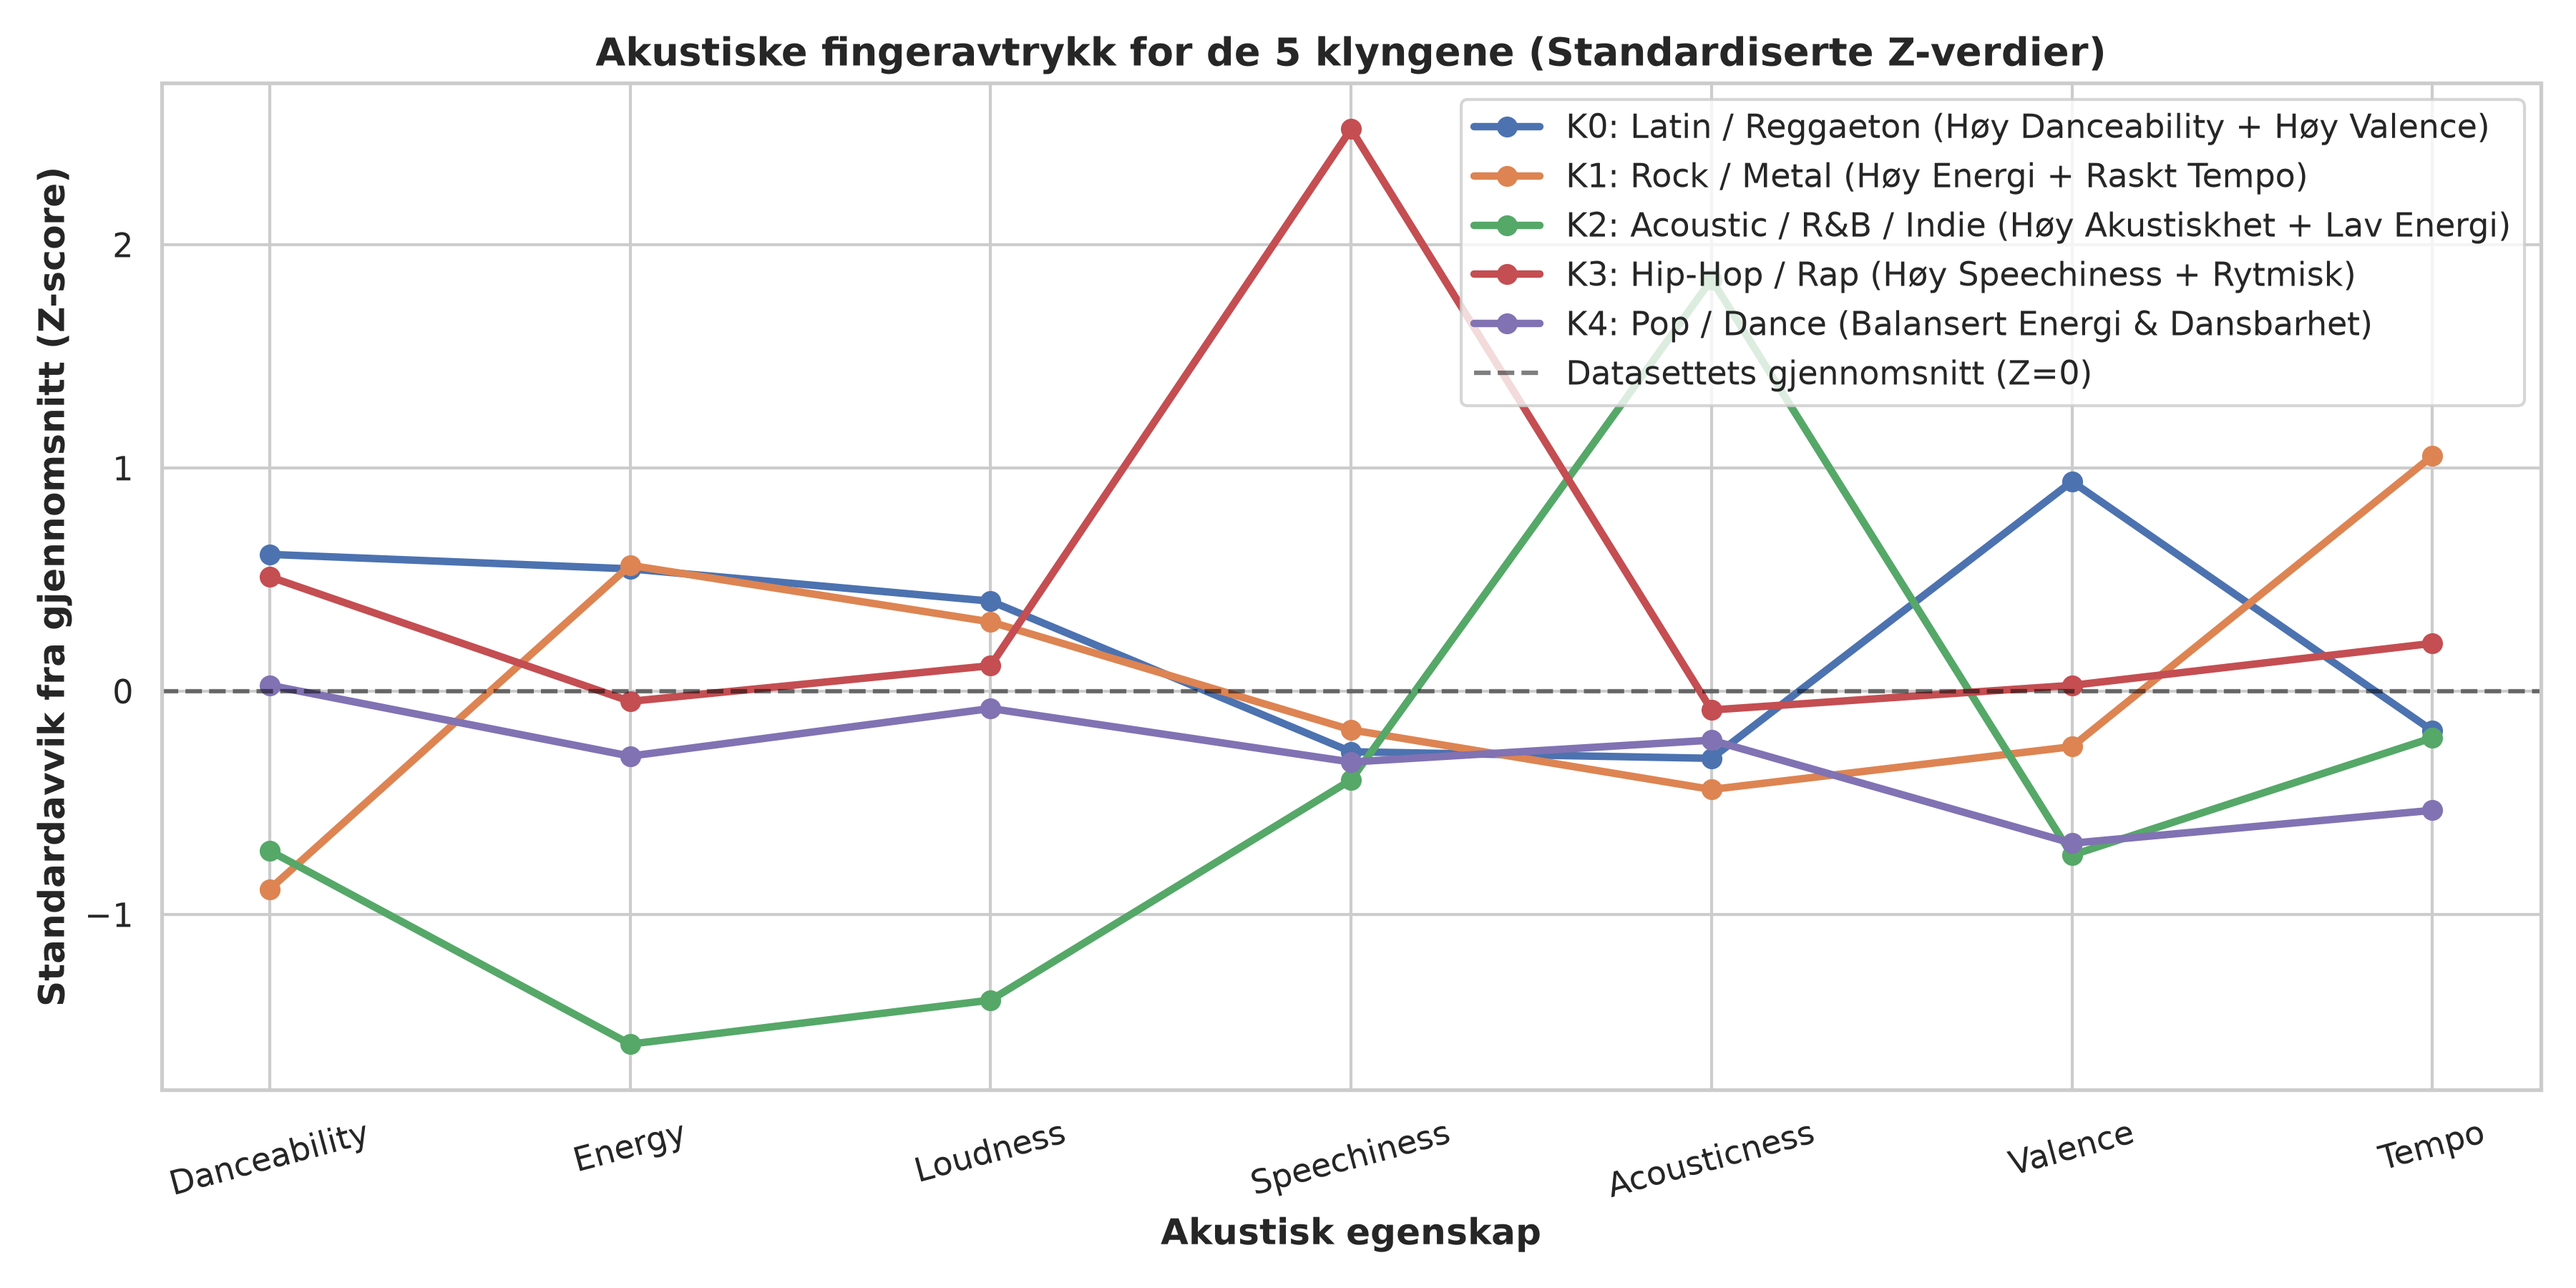
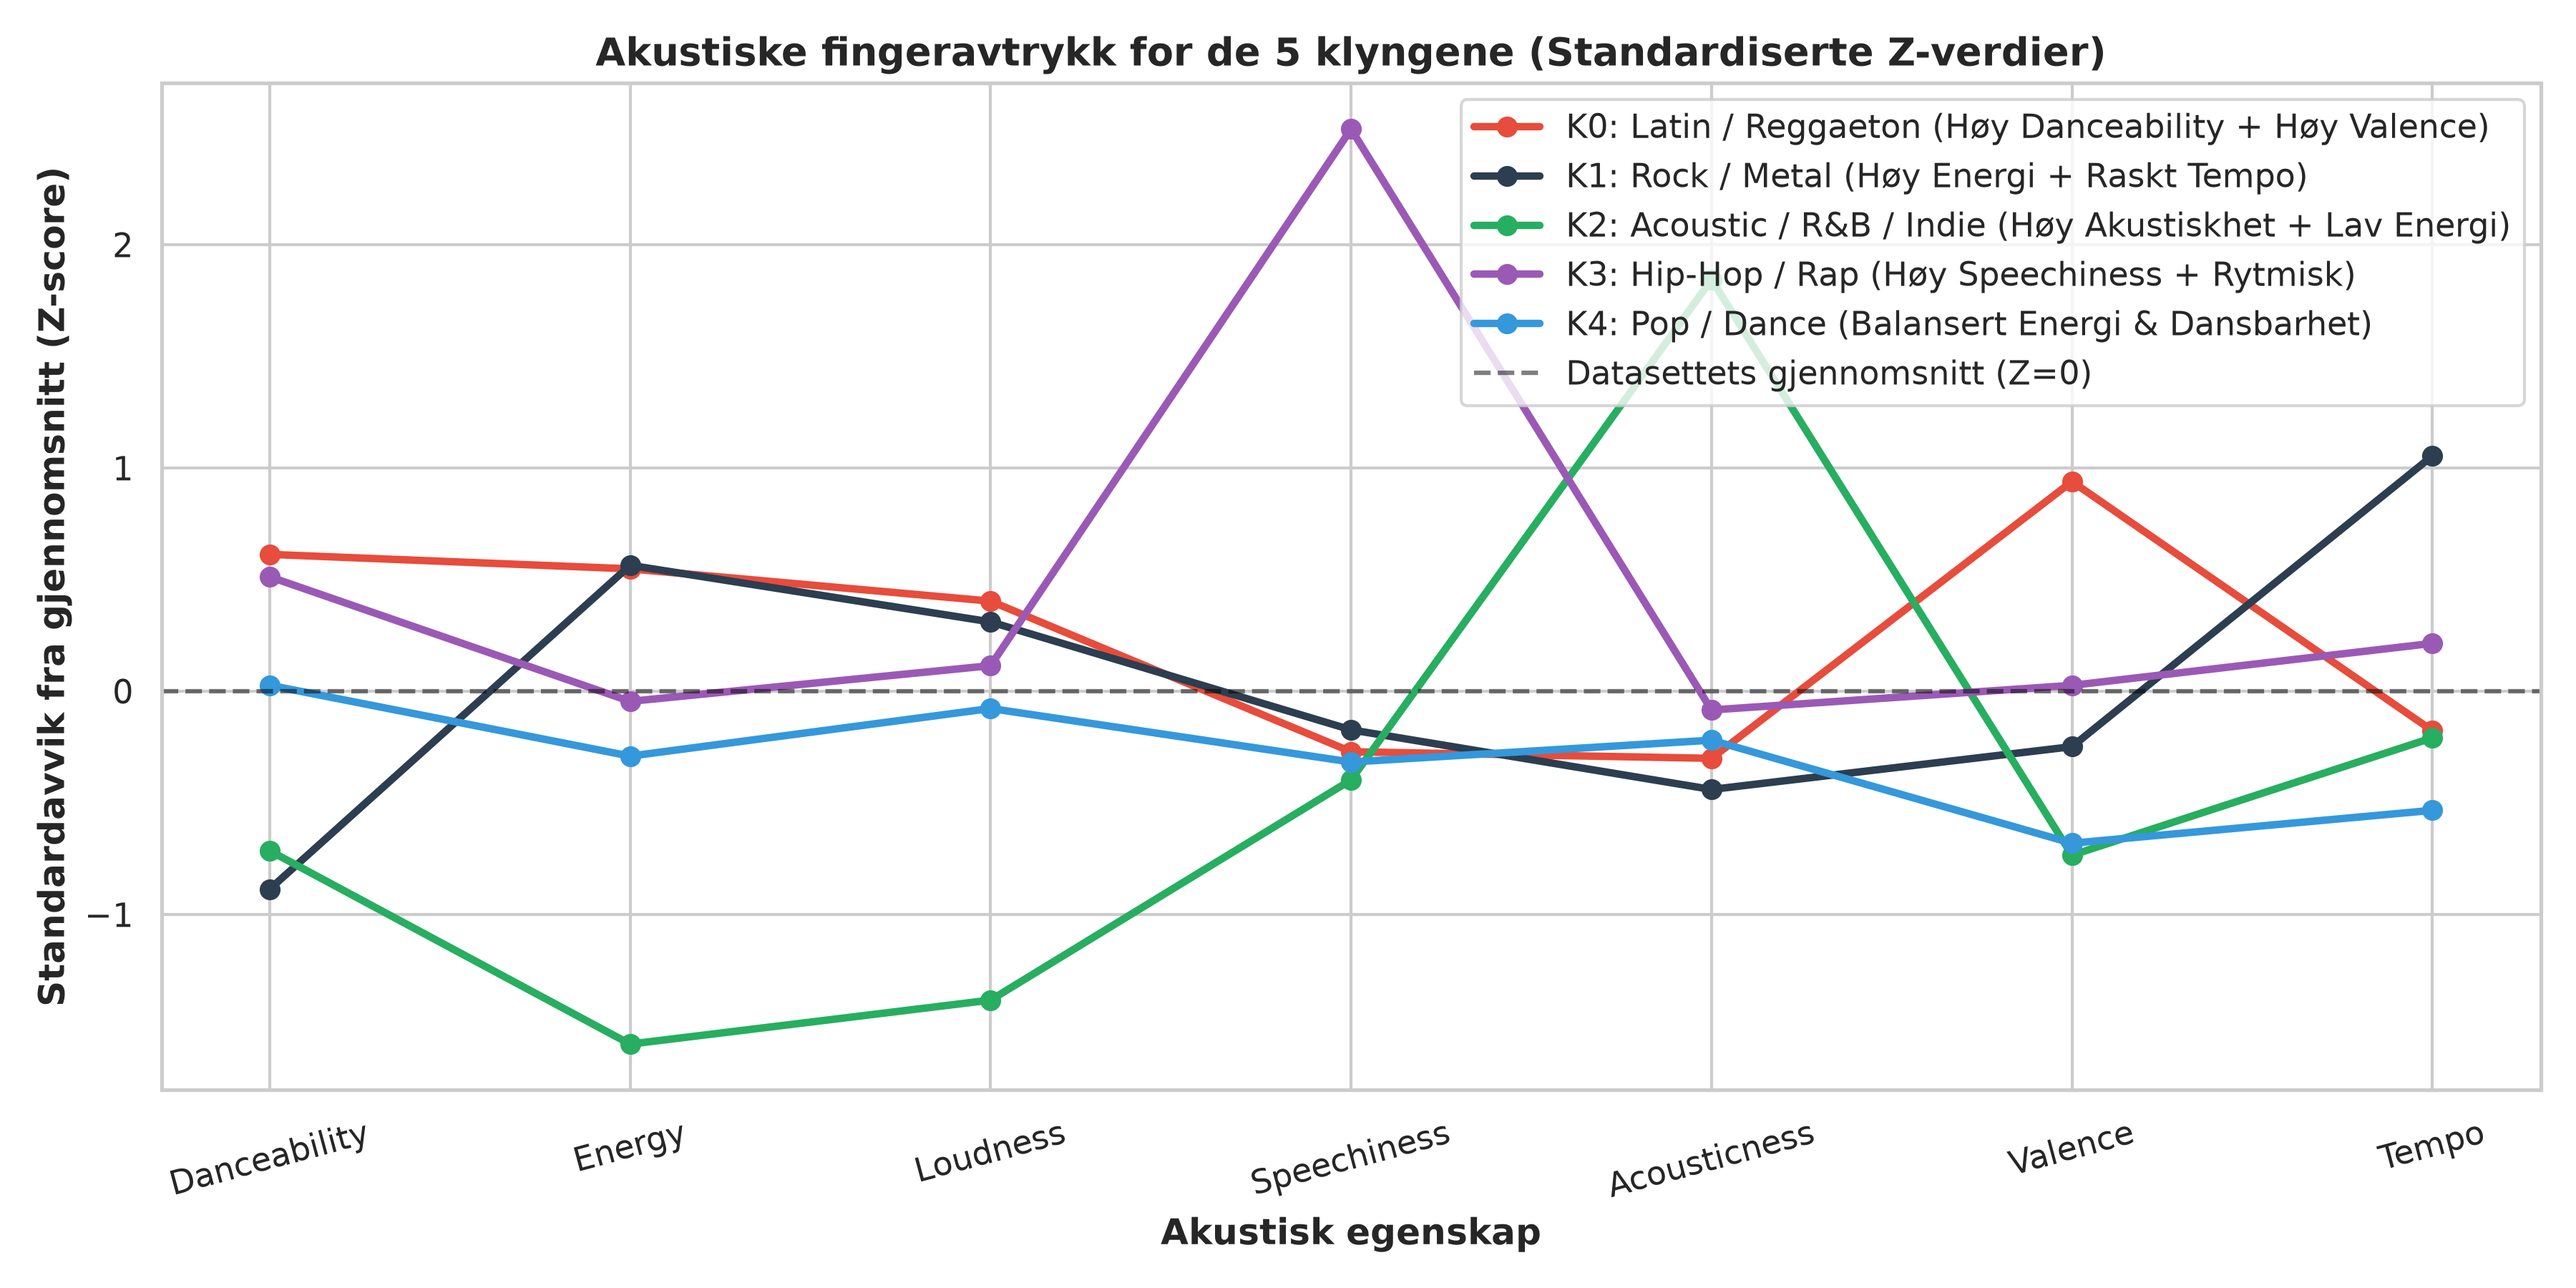
color corrected graphs

diff --git a/spotify_clustering.py b/spotify_clustering.py
@@ -25,8 +25,10 @@ from sklearn.decomposition import PCA
 from sklearn.metrics import silhouette_score, silhouette_samples, adjusted_rand_score, normalized_mutual_info_score
 
 # SciPy for dendrogram og optimal klynge-tilordning
-from scipy.cluster.hierarchy import dendrogram, linkage
+from scipy.cluster.hierarchy import dendrogram, linkage, fcluster, set_link_color_palette
 from scipy.optimize import linear_sum_assignment
+from matplotlib.patches import Patch
+from matplotlib.lines import Line2D
 
 # Sett stil for visualiseringer
 sns.set_theme(style="whitegrid")
@@ -41,6 +43,16 @@ GENRE_ORDER = [
     'Hip-Hop / Rap',
     'Pop / Dance'
 ]
+
+# Fast, gjennomgående fargepalett for de 5 gruppene på tvers av ALLE figurer
+PALETTE_GENRES = {
+    'Latin / Reggaeton': '#e74c3c',       # Rød
+    'Rock / Metal': '#2c3e50',            # Mørk skiferblå/grå
+    'Acoustic / R&B / Indie': '#27ae60',  # Grønn
+    'Hip-Hop / Rap': '#9b59b6',           # Lilla
+    'Pop / Dance': '#3498db'              # Blå
+}
+CLUSTER_COLORS = [PALETTE_GENRES[g] for g in GENRE_ORDER]
 
 
 def load_and_prepare_data(filepath="data/kworb_top2500_spotify.csv"):
@@ -186,13 +198,13 @@ def perform_kmeans_clustering(df, X_scaled, feature_cols, k=5):
     }
     df['Cluster_Name'] = df['Cluster'].map(cluster_labels_map)
     
-    # Figur 2: Radar-profil (Parallel Coordinates / Z-score profil)
+    # Figur 2: Radar-profil (Parallel Coordinates / Z-score profil) med samme gruppefarger
     scaled_centers = pd.DataFrame(ordered_centers, columns=feature_cols)
     
     plt.figure(figsize=(12, 6))
     for i in range(k):
         plt.plot(feature_cols, scaled_centers.iloc[i], marker='o', lw=2.5,
-                 label=cluster_labels_map[i])
+                 color=CLUSTER_COLORS[i], label=cluster_labels_map[i])
     plt.axhline(0, color='black', linestyle='--', alpha=0.5, label='Datasettets gjennomsnitt (Z=0)')
     plt.title("Akustiske fingeravtrykk for de 5 klyngene (Standardiserte Z-verdier)", fontweight='bold', fontsize=13)
     plt.xlabel("Akustisk egenskap", fontweight='bold')
@@ -352,7 +364,7 @@ def perform_pca_and_visualization(df, X_scaled, feature_cols):
 
 def hierarchical_clustering(df, X_scaled):
     """
-    Hierarkisk klyngeanalyse med Ward's metode og dendrogram.
+    Hierarkisk klyngeanalyse med Ward's metode og dendrogram, fargekodet etter de 5 gruppene.
     """
     print("\n" + "=" * 65)
     print("5. HIERARKISK AGGLOMERATIV KLYNGEANALYSE")
@@ -362,8 +374,16 @@ def hierarchical_clustering(df, X_scaled):
     np.random.seed(42)
     sample_indices = np.random.choice(len(df), size=100, replace=False)
     X_sub = X_scaled[sample_indices]
+    sub_clusters = df['Cluster'].iloc[sample_indices].values
     
     Z = linkage(X_sub, method='ward')
+    
+    # Koble de 5 hierarkiske grenene (fra venstre mot høyre) til de 5 k-Means-fargene
+    h_labels = fcluster(Z, t=10.5, criterion='distance')
+    ct_h = pd.crosstab(h_labels, sub_clusters)
+    row_ind, col_ind = linear_sum_assignment(-ct_h.values)
+    branch_palette = [CLUSTER_COLORS[col_ind[r]] for r in range(len(row_ind))]
+    set_link_color_palette(branch_palette)
     
     # Figur 4: Dendrogram
     plt.figure(figsize=(14, 7))
@@ -374,13 +394,19 @@ def hierarchical_clustering(df, X_scaled):
         leaf_rotation=90,
         leaf_font_size=10,
         show_contracted=True,
-        color_threshold=10.5
+        color_threshold=10.5,
+        above_threshold_color='#95a5a6'
     )
-    plt.axhline(10.5, color='red', linestyle='--', label='Snitthøyde for 5 hovedgrener')
-    plt.title("Hierarkisk dendrogram (Ward's kobling) på et tilfeldig utvalg låter", fontweight='bold', fontsize=13)
+    set_link_color_palette(None)
+    cutoff_line = plt.axhline(10.5, color='#c0392b', linestyle='--', lw=1.8, label='Snitthøyde for 5 hovedgrener (d = 10.5)')
+    legend_handles = [cutoff_line] + [
+        Line2D([0], [0], color=CLUSTER_COLORS[i], lw=3, label=f"Gren → K{i}: {g}")
+        for i, g in enumerate(GENRE_ORDER)
+    ]
+    plt.title("Hierarkisk dendrogram (Ward's kobling) fargekodet etter de 5 hovedgruppene", fontweight='bold', fontsize=13)
     plt.xlabel("Klyngeindeks / Antall sammenslåtte låter", fontweight='bold')
     plt.ylabel("Euklidsk avstand (Ward's distanse)", fontweight='bold')
-    plt.legend(loc='upper right')
+    plt.legend(handles=legend_handles, loc='upper right', frameon=True)
     plt.tight_layout()
     fig_path4 = os.path.join(FIGURES_DIR, "4_hierarchical_dendrogram.png")
     plt.savefig(fig_path4, dpi=300)
@@ -411,8 +437,8 @@ def validate_against_genres(df):
         df_known['Genre_Family'], df_known['Cluster_Genre'], normalize='index'
     ).reindex(index=GENRE_ORDER, columns=GENRE_ORDER) * 100
     
-    # Figur 5: Kvadratisk (5x5) Heatmap av kryss-tabellen
-    plt.figure(figsize=(9, 8))
+    # Figur 5: Kvadratisk (5x5) Heatmap av kryss-tabellen med fargekodede gruppeetiketter
+    fig, ax = plt.subplots(figsize=(9.5, 8.5))
     cluster_axis_labels = [f"K{i}: {g}" for i, g in enumerate(GENRE_ORDER)]
     sns.heatmap(
         ct_norm,
@@ -422,13 +448,17 @@ def validate_against_genres(df):
         square=True,
         cbar_kws={'label': 'Andel av sjanger i klynge (%)', 'shrink': 0.82},
         xticklabels=cluster_axis_labels,
-        yticklabels=GENRE_ORDER
+        yticklabels=GENRE_ORDER,
+        ax=ax
     )
-    plt.title("Kvadratisk (5×5) samsvarsmatrise: Faktiske sjangre vs. k-Means klynger (%)", fontweight='bold', fontsize=12)
-    plt.xlabel("Tilordnet k-Means Klynge (Akustisk profil)", fontweight='bold')
-    plt.ylabel("Faktisk sjangerfamilie i CSV (Ground Truth)", fontweight='bold')
-    plt.xticks(rotation=30, ha='right')
-    plt.yticks(rotation=0)
+    ax.set_title("Kvadratisk (5×5) samsvarsmatrise: Faktiske sjangre vs. k-Means klynger (%)", fontweight='bold', fontsize=12)
+    ax.set_xlabel("Tilordnet k-Means Klynge (Akustisk profil)", fontweight='bold')
+    ax.set_ylabel("Faktisk sjangerfamilie i CSV (Ground Truth)", fontweight='bold')
+    plt.xticks(rotation=30, ha='right', fontweight='bold')
+    plt.yticks(rotation=0, fontweight='bold')
+    for i, color in enumerate(CLUSTER_COLORS):
+        ax.get_xticklabels()[i].set_color(color)
+        ax.get_yticklabels()[i].set_color(color)
     plt.tight_layout()
     fig_path5 = os.path.join(FIGURES_DIR, "5_cluster_genre_heatmap.png")
     plt.savefig(fig_path5, dpi=300)

diff --git a/build_clustering_notebook.py b/build_clustering_notebook.py
@@ -51,8 +51,10 @@ from sklearn.decomposition import PCA
 from sklearn.metrics import silhouette_score, adjusted_rand_score, normalized_mutual_info_score
 
 # SciPy for dendrogram og optimal klynge-tilordning
-from scipy.cluster.hierarchy import dendrogram, linkage
+from scipy.cluster.hierarchy import dendrogram, linkage, fcluster, set_link_color_palette
 from scipy.optimize import linear_sum_assignment
+from matplotlib.patches import Patch
+from matplotlib.lines import Line2D
 
 # Visualiseringsoppsett
 sns.set_theme(style="whitegrid")
@@ -65,6 +67,15 @@ GENRE_ORDER = [
     'Hip-Hop / Rap',
     'Pop / Dance'
 ]
+
+PALETTE_GENRES = {
+    'Latin / Reggaeton': '#e74c3c',
+    'Rock / Metal': '#2c3e50',
+    'Acoustic / R&B / Indie': '#27ae60',
+    'Hip-Hop / Rap': '#9b59b6',
+    'Pop / Dance': '#3498db'
+}
+CLUSTER_COLORS = [PALETTE_GENRES[g] for g in GENRE_ORDER]
 """))
 
 # CELLE 3: Data loading and mapping
@@ -208,13 +219,13 @@ cluster_names = {
 df['Cluster_Name'] = df['Cluster'].map(cluster_names)
 """))
 
-cells.append(nbf.v4.new_code_cell("""# Profilplot: Standardiserte Z-verdier per klynge
+cells.append(nbf.v4.new_code_cell("""# Profilplot: Standardiserte Z-verdier per klynge (samme fargepalett på tvers av alle figurer)
 scaled_centers = pd.DataFrame(ordered_centers, columns=feature_cols)
 
 plt.figure(figsize=(12, 6))
 for i in range(k):
     plt.plot(feature_cols, scaled_centers.iloc[i], marker='o', lw=2.5,
-             label=f"{cluster_names[i]}")
+             color=CLUSTER_COLORS[i], label=f"{cluster_names[i]}")
 
 plt.axhline(0, color='black', linestyle='--', alpha=0.5, label='Datasettets gjennomsnitt (Z=0)')
 plt.title("Akustiske fingeravtrykk for de 5 klyngene (Z-verdier)", fontweight='bold', fontsize=13)
@@ -291,9 +302,15 @@ cells.append(nbf.v4.new_code_cell("""# Trekk ut et representativt tilfeldig utva
 np.random.seed(42)
 sample_idx = np.random.choice(len(df), size=100, replace=False)
 X_sub = X_scaled[sample_idx]
+sub_clusters = df['Cluster'].iloc[sample_idx].values
 
-# Beregn koblingsmatrise
+# Beregn koblingsmatrise og koble grenene til de 5 gruppefargene
 Z = linkage(X_sub, method='ward')
+h_labels = fcluster(Z, t=10.5, criterion='distance')
+ct_h = pd.crosstab(h_labels, sub_clusters)
+row_ind, col_ind = linear_sum_assignment(-ct_h.values)
+branch_palette = [CLUSTER_COLORS[col_ind[r]] for r in range(len(row_ind))]
+set_link_color_palette(branch_palette)
 
 plt.figure(figsize=(14, 7))
 dendrogram(
@@ -303,13 +320,19 @@ dendrogram(
     leaf_rotation=90,
     leaf_font_size=10,
     show_contracted=True,
-    color_threshold=10.5
+    color_threshold=10.5,
+    above_threshold_color='#95a5a6'
 )
-plt.axhline(10.5, color='red', linestyle='--', label='Kuttnivå for 5 hovedklynger')
-plt.title("Hierarkisk dendrogram (Ward's kobling) for 100 låter", fontweight='bold', fontsize=13)
+set_link_color_palette(None)
+cutoff_line = plt.axhline(10.5, color='#c0392b', linestyle='--', lw=1.8, label='Kuttnivå for 5 hovedklynger (d = 10.5)')
+legend_handles = [cutoff_line] + [
+    Line2D([0], [0], color=CLUSTER_COLORS[i], lw=3, label=f"Gren → K{i}: {g}")
+    for i, g in enumerate(GENRE_ORDER)
+]
+plt.title("Hierarkisk dendrogram (Ward's kobling) fargekodet etter de 5 hovedgruppene", fontweight='bold', fontsize=13)
 plt.xlabel("Klynge / Observasjoner", fontweight='bold')
 plt.ylabel("Ward's Euklidske Avstand", fontweight='bold')
-plt.legend(loc='upper right')
+plt.legend(handles=legend_handles, loc='upper right', frameon=True)
 plt.tight_layout()
 plt.show()
 """))
@@ -336,18 +359,21 @@ ct_pct = pd.crosstab(
     df_known['Genre_Family'], df_known['Cluster_Genre'], normalize='index'
 ).reindex(index=GENRE_ORDER, columns=GENRE_ORDER) * 100
 
-plt.figure(figsize=(9, 8))
+fig, ax = plt.subplots(figsize=(9.5, 8.5))
 cluster_axis_labels = [f"K{i}: {g}" for i, g in enumerate(GENRE_ORDER)]
 sns.heatmap(
     ct_pct, annot=True, fmt=".1f", cmap="YlGnBu", square=True,
     cbar_kws={'label': 'Andel (%) av sjanger i klynge', 'shrink': 0.82},
-    xticklabels=cluster_axis_labels, yticklabels=GENRE_ORDER
+    xticklabels=cluster_axis_labels, yticklabels=GENRE_ORDER, ax=ax
 )
-plt.title("Kvadratisk (5×5) samsvarsmatrise: Faktiske sjangre vs. k-Means klynger (%)", fontweight='bold', fontsize=12)
-plt.xlabel("Tilordnet k-Means Klynge (Akustisk profil)", fontweight='bold')
-plt.ylabel("Faktisk sjangerfamilie i CSV", fontweight='bold')
-plt.xticks(rotation=30, ha='right')
-plt.yticks(rotation=0)
+ax.set_title("Kvadratisk (5×5) samsvarsmatrise: Faktiske sjangre vs. k-Means klynger (%)", fontweight='bold', fontsize=12)
+ax.set_xlabel("Tilordnet k-Means Klynge (Akustisk profil)", fontweight='bold')
+ax.set_ylabel("Faktisk sjangerfamilie i CSV", fontweight='bold')
+plt.xticks(rotation=30, ha='right', fontweight='bold')
+plt.yticks(rotation=0, fontweight='bold')
+for i, color in enumerate(CLUSTER_COLORS):
+    ax.get_xticklabels()[i].set_color(color)
+    ax.get_yticklabels()[i].set_color(color)
 plt.tight_layout()
 plt.show()
 
